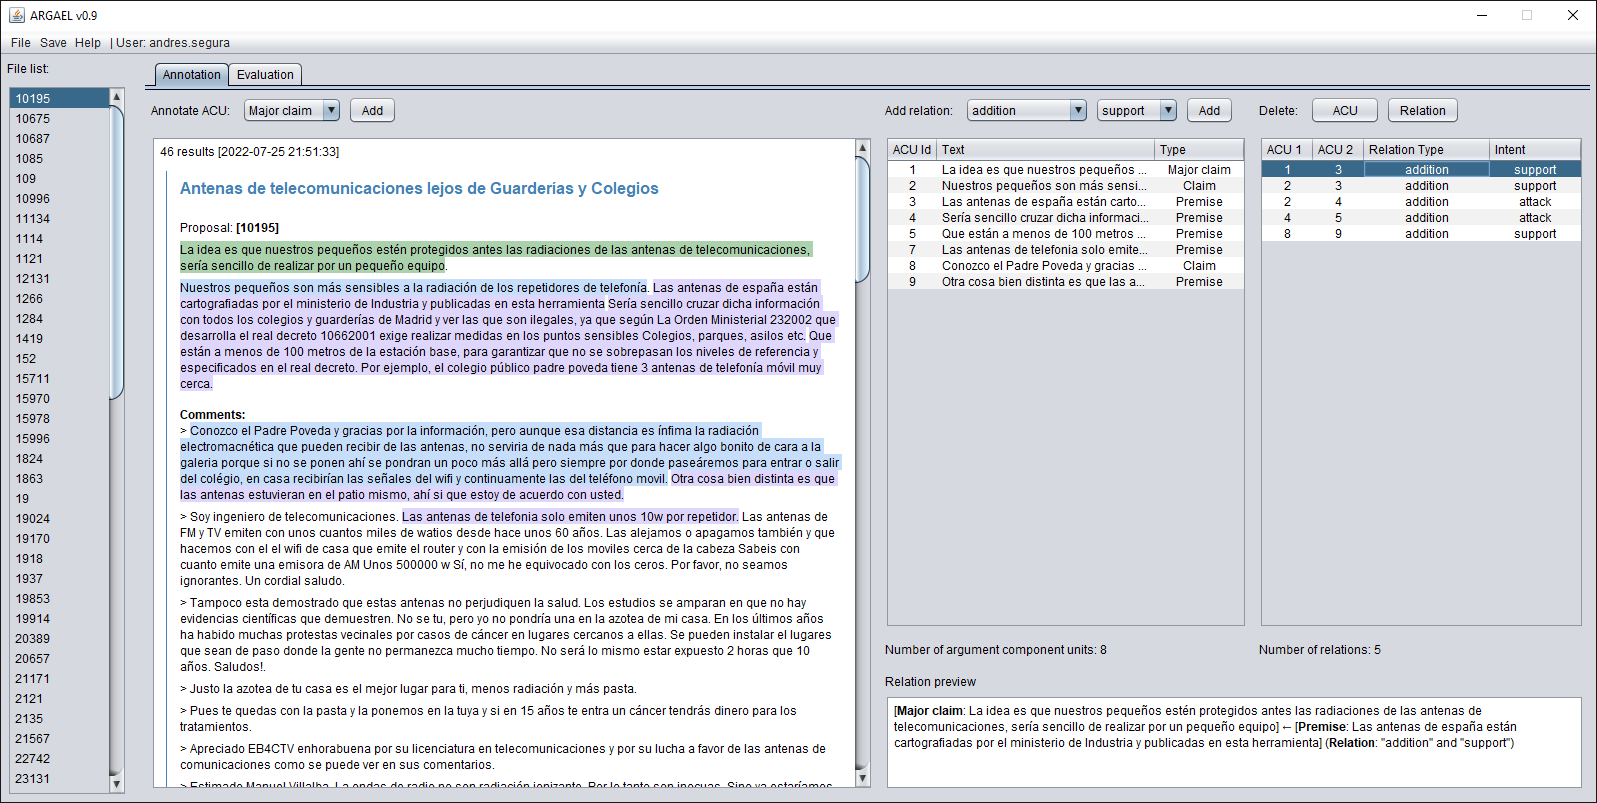
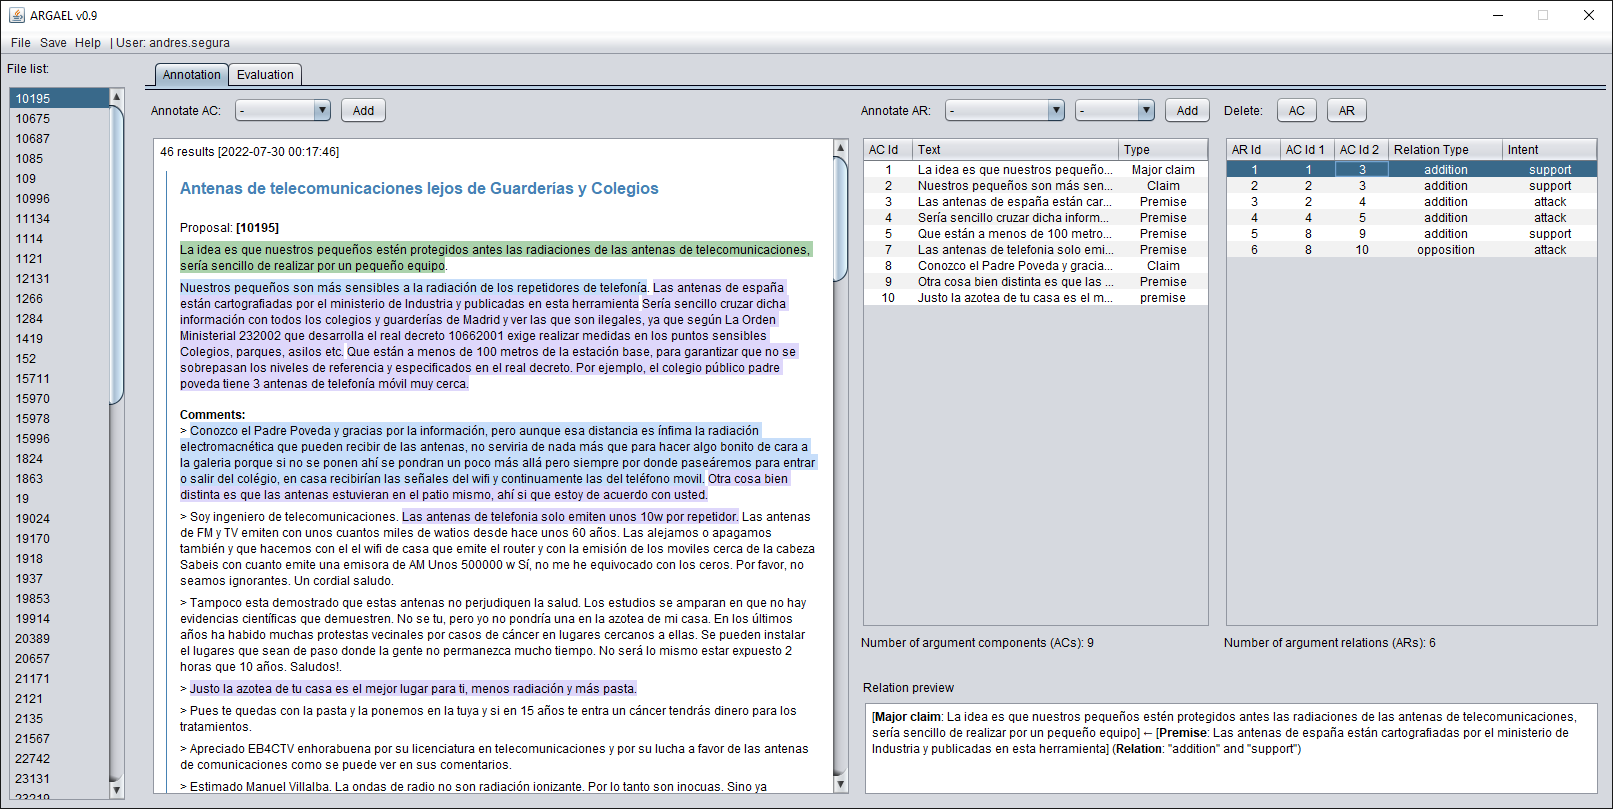
Update ARGAEL
Final refinements were made to the evaluation module.

Changed region(s): [[0.0, 0.0, 1.0, 0.9963], [0.7364, 0.7783, 0.8898, 0.8406]]

diff --git a/code/Argael/src/es/uam/irg/gui/ArgaelForm.java b/code/Argael/src/es/uam/irg/gui/ArgaelForm.java
@@ -592,7 +592,7 @@ public class ArgaelForm extends javax.swing.JFrame {
         String aboutMsg = """
                           ARGAEL: ARGument Annotation and Evaluation tooL
                           
-                          Version: 0.9.26
+                          Version: 0.9.28
                           Date: 07/29/2022
                           Created by: Andr\u00e9s Segura-Tinoco & Iv\u00e1n Cantador 
                           License: Apache License 2.0
@@ -911,6 +911,8 @@ public class ArgaelForm extends javax.swing.JFrame {
     private void displayAnnotationData(Map<String, List<String[]>> annotations, Map<String, Map<Integer, String>> evaluations) {
         List<String[]> acList = annotations.get(IOManager.FILE_ARG_COMP);
         List<String[]> arList = annotations.get(IOManager.FILE_ARG_REL);
+        Map<Integer, String> acEval = evaluations.get(IOManager.FILE_ARG_COMP);
+        Map<Integer, String> arEval = evaluations.get(IOManager.FILE_ARG_REL);
 
         // Update arguments table
         DefaultTableModel acModel1 = (DefaultTableModel) tblArgComponents.getModel();
@@ -918,27 +920,39 @@ public class ArgaelForm extends javax.swing.JFrame {
         acModel1.setRowCount(0);
         acModel2.setRowCount(0);
 
-        for (int i = 1; i < acList.size(); i++) {
+        for (int i = 0; i < acList.size(); i++) {
             String[] rowData = acList.get(i);
+            int rowId = Integer.parseInt(rowData[0]);
+
             try {
                 acModel1.addRow(FunctionUtils.getSubArray(rowData, 0, 3));
                 acModel2.addRow(FunctionUtils.getSubArray(rowData, 0, 3));
+
+                if (acEval.containsKey(rowId)) {
+                    acModel2.setValueAt(acEval.get(rowId), i, 3);
+                }
             } catch (Exception ex) {
                 Logger.getLogger(ArgaelForm.class.getName()).log(Level.SEVERE, null, ex);
             }
         }
 
         // Update relations table
-        DefaultTableModel aruModel1 = (DefaultTableModel) tblArgRelations.getModel();
-        DefaultTableModel aruModel2 = (DefaultTableModel) tblEvaRelations.getModel();
-        aruModel1.setRowCount(0);
-        aruModel2.setRowCount(0);
+        DefaultTableModel arModel1 = (DefaultTableModel) tblArgRelations.getModel();
+        DefaultTableModel arModel2 = (DefaultTableModel) tblEvaRelations.getModel();
+        arModel1.setRowCount(0);
+        arModel2.setRowCount(0);
 
-        for (int i = 1; i < arList.size(); i++) {
+        for (int i = 0; i < arList.size(); i++) {
             String[] rowData = arList.get(i);
+            int rowId = Integer.parseInt(rowData[0]);
+
             try {
-                aruModel1.addRow(FunctionUtils.getSubArray(rowData, 0, 5));
-                aruModel2.addRow(FunctionUtils.getSubArray(rowData, 0, 5));
+                arModel1.addRow(FunctionUtils.getSubArray(rowData, 0, 5));
+                arModel2.addRow(FunctionUtils.getSubArray(rowData, 0, 5));
+
+                if (arEval.containsKey(rowId)) {
+                    arModel2.setValueAt(arEval.get(rowId), i, 5);
+                }
             } catch (Exception ex) {
                 Logger.getLogger(ArgaelForm.class.getName()).log(Level.SEVERE, null, ex);
             }
@@ -1138,10 +1152,10 @@ public class ArgaelForm extends javax.swing.JFrame {
             TableModel arModel = tblEvaRelations.getModel();
             for (int i = 0; i < arModel.getRowCount(); i++) {
                 if (arModel.getValueAt(i, 5) != null) {
-                    String aruId = arModel.getValueAt(i, 0).toString();
-                    String aruQuality = arModel.getValueAt(i, 5).toString();
+                    String arId = arModel.getValueAt(i, 0).toString();
+                    String arQuality = arModel.getValueAt(i, 5).toString();
                     String dateStamp = dateFormat.format(new Date());
-                    arEvaluations.add(new String[]{aruId, aruQuality, userName, dateStamp});
+                    arEvaluations.add(new String[]{arId, arQuality, userName, dateStamp});
                 }
             }
 
@@ -1149,7 +1163,7 @@ public class ArgaelForm extends javax.swing.JFrame {
             header = new ArrayList<>(Arrays.asList("ac_id", "ac_quality", "evaluator", "timestamp"));
             saveResults(filePath, IOManager.FILE_ARG_COMP, header, acEvaluations);
 
-            // Save ARUs results
+            // Save ARs results
             header = new ArrayList<>(Arrays.asList("ar_id", "ar_quality", "evaluator", "timestamp"));
             saveResults(filePath, IOManager.FILE_ARG_REL, header, arEvaluations);
         }

diff --git a/code/Argael/src/es/uam/irg/io/IOManager.java b/code/Argael/src/es/uam/irg/io/IOManager.java
@@ -18,7 +18,6 @@
 package es.uam.irg.io;
 
 import es.uam.irg.utils.FileUtils;
-import es.uam.irg.utils.FunctionUtils;
 import es.uam.irg.utils.StringUtils;
 import java.io.File;
 import java.nio.file.Path;
@@ -49,7 +48,7 @@ public class IOManager {
 
         for (String fileType : argFileTypes) {
             String filePath = directory + currFile + "_" + fileType + ".csv";
-            List<String[]> data = FileUtils.readCsvFile(filePath);
+            List<String[]> data = FileUtils.readCsvFile(filePath, false);
             annotations.put(fileType, data);
         }
 
@@ -68,14 +67,12 @@ public class IOManager {
 
         for (String fileType : argFileTypes) {
             String filePath = directory + currFile + "_" + fileType + ".csv";
-            List<String[]> data = FileUtils.readCsvFile(filePath);
+            List<String[]> data = FileUtils.readCsvFile(filePath, false);
             Map<Integer, String> evals = new HashMap<>();
             for (String[] row : data) {
-                if (FunctionUtils.isNumeric(row[0])) {
-                    int evalKey = Integer.parseInt(row[0]);
-                    String evalValues = row[1];
-                    evals.put(evalKey, evalValues);
-                }
+                int evalKey = Integer.parseInt(row[0]);
+                String evalValues = row[1];
+                evals.put(evalKey, evalValues);
             }
             evaluations.put(fileType, evals);
         }

diff --git a/code/Argael/src/es/uam/irg/utils/FileUtils.java b/code/Argael/src/es/uam/irg/utils/FileUtils.java
@@ -69,11 +69,12 @@ public class FileUtils {
     }
 
     /**
-     *
+     * 
      * @param filepath
-     * @return
+     * @param withHeader
+     * @return 
      */
-    public static List<String[]> readCsvFile(String filepath) {
+    public static List<String[]> readCsvFile(String filepath, boolean withHeader) {
         List<String[]> csvFile = new ArrayList<>();
         File file = new File(filepath);
 
@@ -81,6 +82,9 @@ public class FileUtils {
             try {
                 FileReader inputFile = new FileReader(file);
                 try ( CSVReader reader = new CSVReader(inputFile)) {
+                    if (!withHeader) {
+                        reader.readNext();
+                    }
                     csvFile = reader.readAll();
                 }
 

diff --git a/README.md b/README.md
@@ -1,5 +1,5 @@
 # ARGAEL: ARGument Annotation and Evaluation tooL
-![version](https://img.shields.io/badge/version-0.9.26-blue)
+![version](https://img.shields.io/badge/version-0.9.28-blue)
 ![last-update](https://img.shields.io/badge/last_update-7/29/2022-orange)
 ![license](https://img.shields.io/badge/license-Apache_2.0-brightgreen)
 
